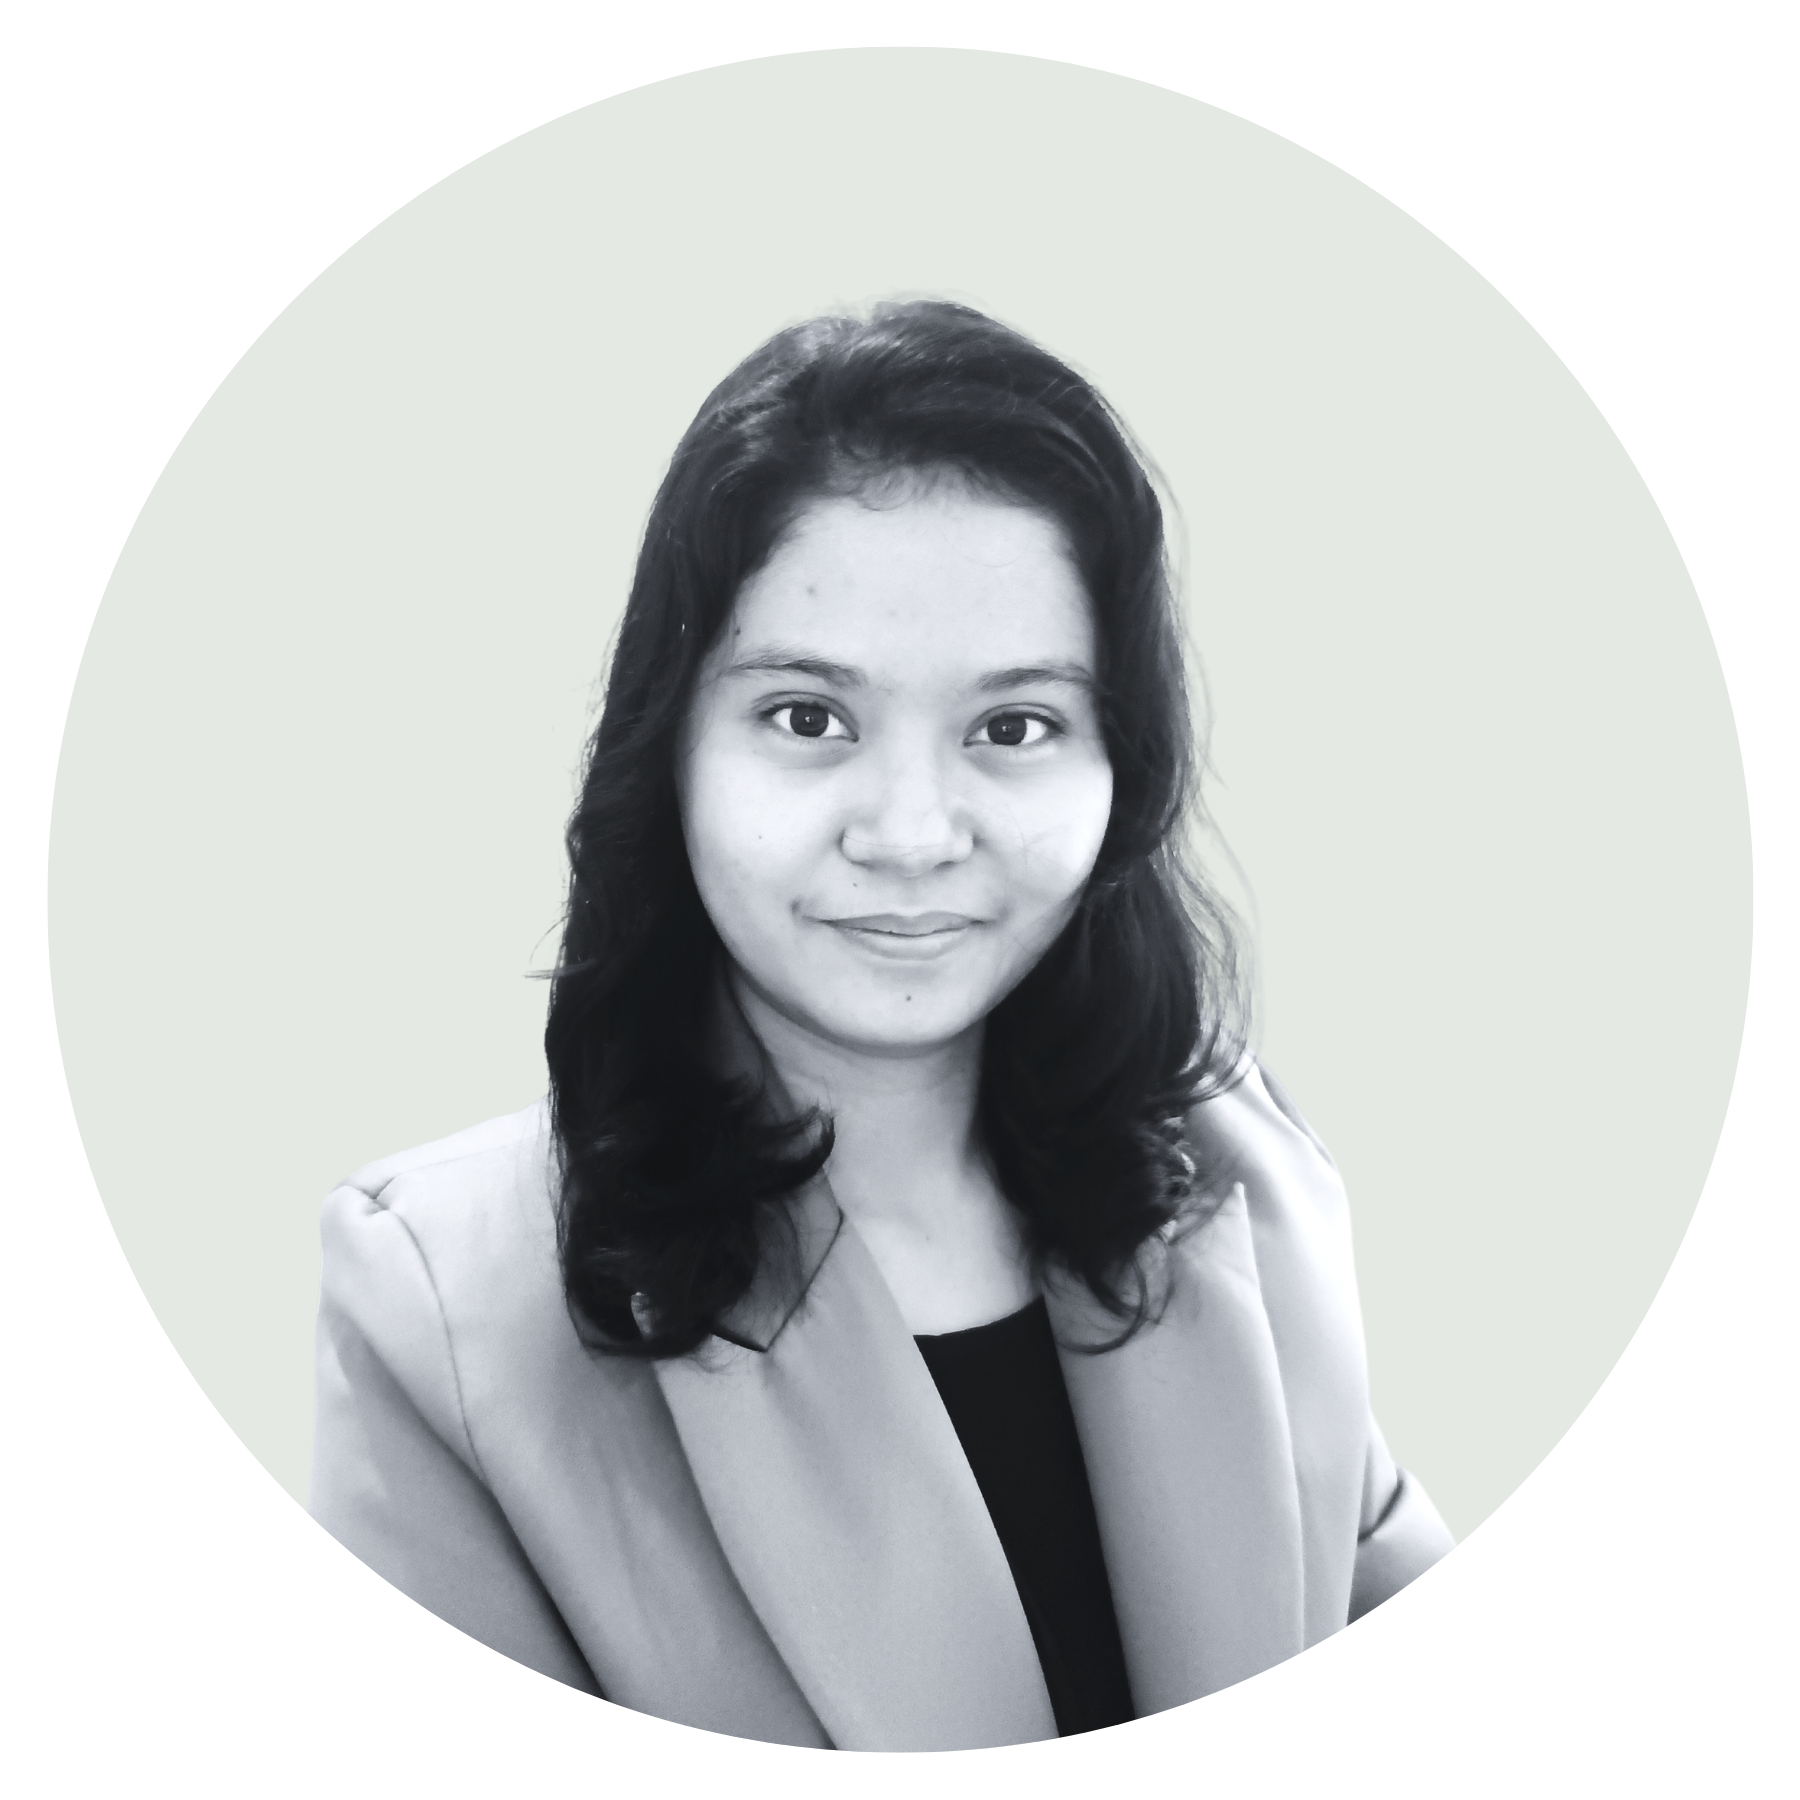
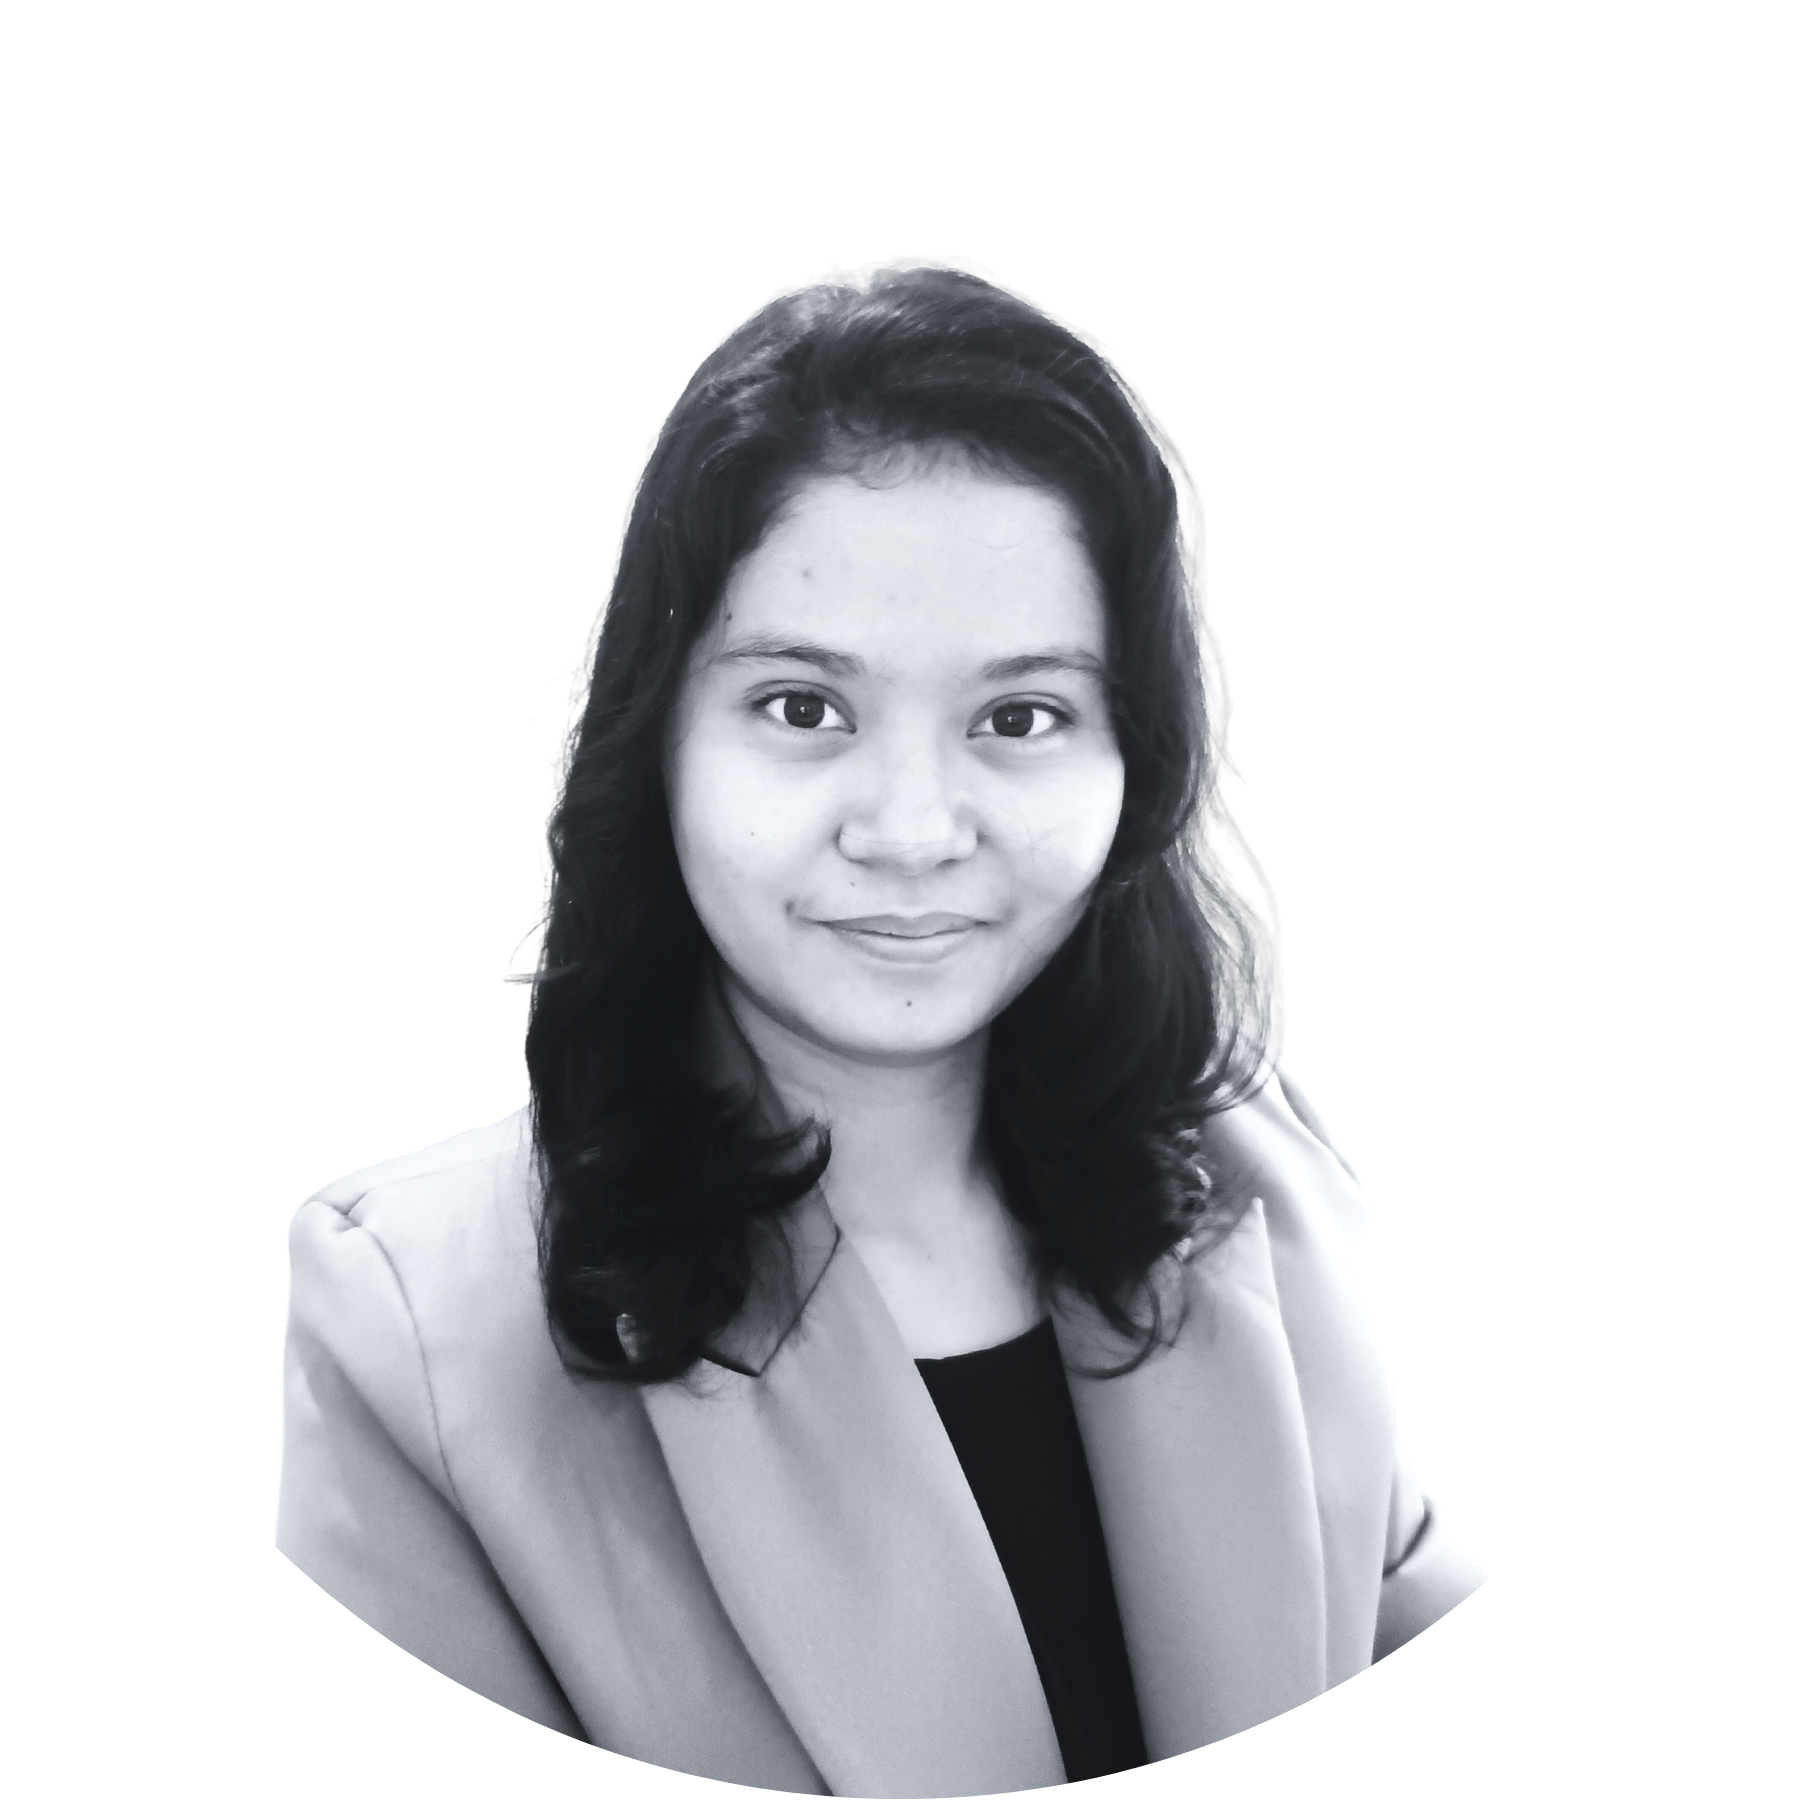
updated design v.2

diff --git a/src/AppAbout/AppAbout.js b/src/AppAbout/AppAbout.js
@@ -2,38 +2,36 @@ import React from "react";
 import PropTypes from "prop-types";
 import styles from "./AppAbout.module.css";
 import photo from "../Images/photo.png";
-import placeholder from "../Images/placeholder.png";
+import code from "../Images/code.png";
+import food from "../Images/food.png";
+import diy from "../Images/diy.png";
 import PassionTemplate from "./PassionTemplate";
 
 const AppAbout = () => (
   <div className={styles.AppAbout} data-testid="AppAbout">
     <div className={styles.AboutMe}>
-      <img src={photo} alt="" width="200px" height="200px" />
-      <h1>hello...</h1>
-      <p>I'm Faye and I am a web developer.</p>
-      <h1>what I love doing...</h1>
+      <img src={photo} alt="" width="225px" height="225px" />
+      <div>
+        <h1>hello...</h1>
+        <p>I'm Faye and I am a web developer.</p>
+      </div>
     </div>
+    <h3>what I like...</h3>
     <div className={styles.PassionContainer}>
       <PassionTemplate
-        image={placeholder}
-        description="Lorem Ipsum is simply dummy text of the printing and typesetting
-          industry. Lorem Ipsum has been the industry's standard dummy text ever
-          since the 1500s, when an unknown printer took a galley of type and
-          scrambled it to make a type specimen book."
+        image={code}
+        title="web design & development"
+        description=". . .experimenting on designs and solving problems."
       />
       <PassionTemplate
-        image={placeholder}
-        description="Lorem Ipsum is simply dummy text of the printing and typesetting
-          industry. Lorem Ipsum has been the industry's standard dummy text ever
-          since the 1500s, when an unknown printer took a galley of type and
-          scrambled it to make a type specimen book."
+        image={food}
+        title="food"
+        description=". . .from cooking, baking and of course eating foods."
       />
       <PassionTemplate
-        image={placeholder}
-        description="Lorem Ipsum is simply dummy text of the printing and typesetting
-          industry. Lorem Ipsum has been the industry's standard dummy text ever
-          since the 1500s, when an unknown printer took a galley of type and
-          scrambled it to make a type specimen book."
+        image={diy}
+        title="do-it-yourself"
+        description=". . .sometimes doing crafts and even furnitures by myself."
       />
     </div>
   </div>

diff --git a/src/AppAbout/AppAbout.module.css b/src/AppAbout/AppAbout.module.css
@@ -1,30 +1,41 @@
 .AppAbout {
-  height: 95vh;
   display: flex;
   flex-direction: column;
   padding: 8rem 0 0 0;
-  border: 1px solid red;
 }
 
 .AboutMe {
   display: flex;
-  flex-direction: column;
   align-items: center;
   justify-content: center;
+  padding: 1rem 0;
+  background-color: rgb(228, 233, 228);
 }
 
-.AboutMe img {
+.AboutMe div {
+  padding: 0 3rem;
 }
 
-.AboutMe h1 {
+h1 {
+  font-size: 5rem;
+}
+
+h3,
+.Passion h3 {
+  font-size: 3rem;
+}
+
+h3,
+h1,
+.Passion h3 {
   margin: 0;
   font-family: "Lavishly Yours", cursive;
-  font-size: 3rem;
   font-weight: normal;
+  text-align: center;
   color: rgb(117, 141, 125);
 }
 
-.AboutMe p {
+.AboutMe div p {
   font-size: 1.25rem;
 }
 
@@ -32,6 +43,12 @@
   height: 50%;
   display: flex;
   padding: 0, 1rem;
+  border-bottom: 1px solid rgb(228, 233, 228);
+}
+
+.PassionContainer p {
+  padding: 0 2rem;
+  text-align: center;
 }
 
 .Passion {
@@ -42,6 +59,6 @@
 }
 
 .Passion img {
-  border: 1px solid green;
-  margin-right: 2rem;
+  box-shadow: 0 0 5px 2px rgb(117, 141, 125);
+  border-radius: 50%;
 }

diff --git a/src/AppFooter/AppFooter.js b/src/AppFooter/AppFooter.js
@@ -1,10 +1,28 @@
-import React from 'react';
-import PropTypes from 'prop-types';
-import styles from './AppFooter.module.css';
+import React from "react";
+import PropTypes from "prop-types";
+import styles from "./AppFooter.module.css";
+import {
+  FaGithubSquare,
+  FaLinkedin,
+  FaFacebookSquare,
+  FaInstagramSquare,
+} from "react-icons/fa";
 
 const AppFooter = () => (
   <div className={styles.AppFooter} data-testid="AppFooter">
-    AppFooter Component
+    <p>FOLLOW ME ON</p>
+    <a href="" className={styles.Socmed}>
+      <FaGithubSquare />
+    </a>
+    <a href="" className={styles.Socmed}>
+      <FaLinkedin />
+    </a>
+    <a href="" className={styles.Socmed}>
+      <FaFacebookSquare />
+    </a>
+    <a href="" className={styles.Socmed}>
+      <FaInstagramSquare />
+    </a>
   </div>
 );
 

diff --git a/src/AppAbout/PassionTemplate.js b/src/AppAbout/PassionTemplate.js
@@ -6,7 +6,8 @@ const PassionTemplate = (props) => {
   return (
     <>
       <div className={styles.Passion}>
-        <img src={props.image} alt="" height="100px" />
+        <img src={props.image} alt="" height="200px" />
+        <h3>{props.title}</h3>
         <p>{props.description}</p>
       </div>
     </>

diff --git a/src/AppFooter/AppFooter.module.css b/src/AppFooter/AppFooter.module.css
@@ -1,1 +1,13 @@
-.AppFooter {}
+.AppFooter {
+  text-align: center;
+}
+
+.Socmed {
+  font-size: 2rem;
+  color: rgb(25, 25, 25);
+  margin: 0 0.5rem;
+}
+
+.Socmed:hover {
+  color: rgb(117, 141, 125);
+}

diff --git a/src/AppHeader/AppHeader.module.css b/src/AppHeader/AppHeader.module.css
@@ -14,7 +14,6 @@
   font-family: "Lavishly Yours", cursive;
   font-size: 4rem;
   color: rgb(117, 141, 125);
-  /* 165, 174, 168 */
 }
 
 .NavHeader {

diff --git a/src/App.js b/src/App.js
@@ -1,4 +1,3 @@
-import logo from "./logo.svg";
 import "./App.css";
 
 function App() {
